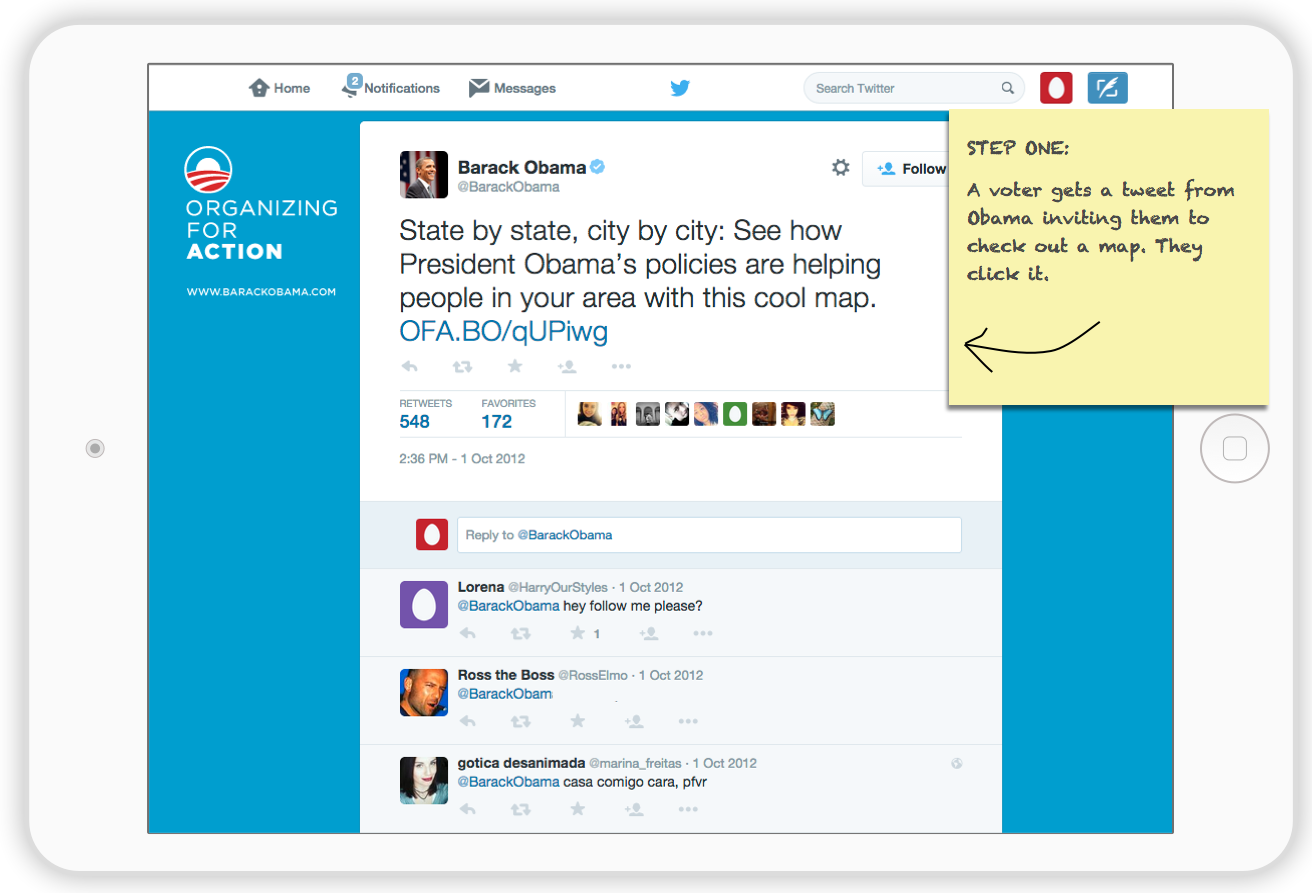
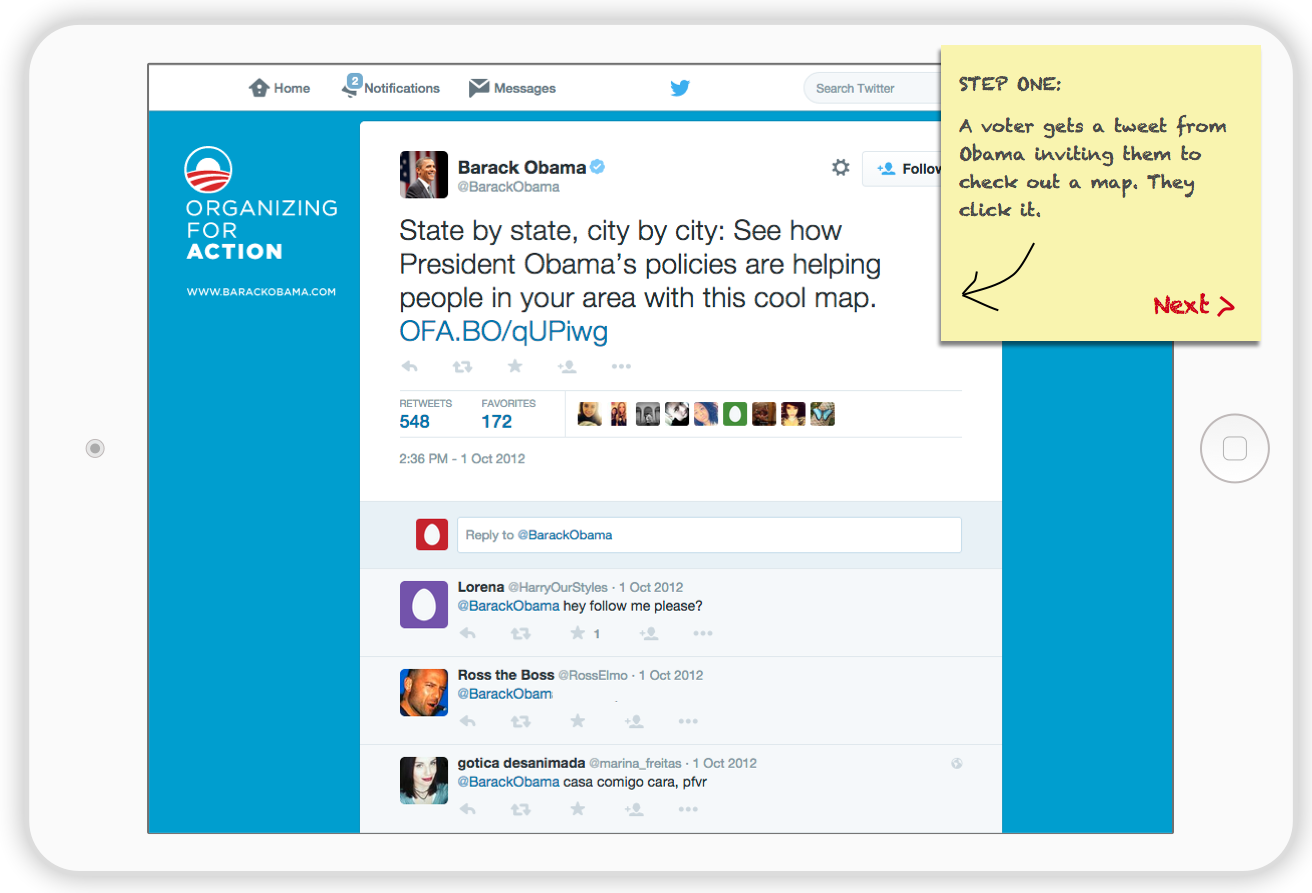
Add next buttons to postits

Changed region(s): [[0.6875, 0.0302, 0.9688, 0.4838]]

diff --git a/obama.html b/obama.html
@@ -2,6 +2,10 @@
   $('#howItWorksCarousel').carousel({
     interval:false
   });
+
+  $('.img-carousel').on('click', function() {
+    $('#howItWorksCarousel').carousel('next');
+  });
   
   var Cycler = function(container, delay) {
     this.container = container
@@ -81,4 +85,4 @@
 | <a href="index.html">Product design portfolio</a></span></div></div><div style="text-align:right; font-size:18px;" class="col-md-6 margin-top-sm small-02"></div></div><div class="row margin-top-medium-lg"><div style="text-align:center;" class="col-md-12"><div class="header-01"> 
 Obama for America:<br>Project Atlas</div><div class="margin-top-sm subhead-01"> 
 An app designed to make President Obama's accomplishments<br>engaging and relevant to voters at a local level</div><div class="small-01 margin-top-medium-sm label-gr"><span class="pill">Ideation</span><span class="pill">Wireframing</span><span class="pill">Project&nbsp;management</span><span class="pill">Google&nbsp;Maps&nbsp;API</span><span class="pill">JavaScript</span></div></div></div><div class="row margin-top-medium"><div style="text-align:center;" class="col-md-12"><img src="images/obama/desktop_display_florida.png" class="img-responsive"><br><span class="caption">Screen shot of Project Atlas zoomed in on Florida.</span></div></div><div class="row margin-top-medium"><div class="col-md-6"><div class="subhead-01-bold">CHALLENGE</div><div class="margin-top-sm"> 
-From research conducted at the campaign's Chicago headquarters, we knew that many voters respond favorably to talking points about Obama's first term, but only when it's about their own community. </div><div class="margin-top-sm"> <p>Project Atlas is an app that makes Obama's accomplishments engaging and relevant to voters at a local level. It does this by detecting user location and offering county-level information about improvements to health care, taxes, clean energy, and more.</p></div></div><div class="col-md-6"><div class="subhead-01-bold">MY ROLE</div><div class="margin-top-sm">Based in the San Francisco Technology Field Office, I led the ideation, wireframing and ran weekly presentations to campaign headquarters. In addition, I led the dev team, wrangled data, coordinated the efforts of more than a dozen volunteers, and wrote a good portion of the JavaScript and CSS.</div></div></div><div class="row margin-top-medium"><div style="text-align:center;" class="col-md-12"><div class="header-01">Making the president's achievements relevant to the user's location is key.</div></div></div><div class="row margin-top-medium"><div style="text-align:center;" class="col-md-12"><div class="caption-header subhead-01-bold italic"><strong>How it works:</strong></div><div id="howItWorksCarousel" data-ride="carousel" class="carousel slide margin-top-sm"><ol class="carousel-indicators"><li data-target="#howItWorksCarousel" data-slide-to="0" class="active"></li><li data-target="#howItWorksCarousel" data-slide-to="1"></li><li data-target="#howItWorksCarousel" data-slide-to="2"></li></ol><div role="listbox" class="carousel-inner"><div class="item active"><img src="images/obama/concept_01_note.png" class="img-responsive img-carousel"></div><div class="item"><img src="images/obama/concept_02_note.png" class="img-responsive img-carousel"></div><div class="item"><img src="images/obama/concept_03_note.png" class="img-responsive img-carousel"></div></div></div><div><a href="#howItWorksCarousel" role="button" data-slide="prev" class="left carousel-control"><span aria-hidden="true" class="glyphicon glyphicon-chevron-left"></span><span class="sr-only">Previous</span></a><a href="#howItWorksCarousel" role="button" data-slide="next" class="right carousel-control"><span aria-hidden="true" class="glyphicon glyphicon-chevron-right"></span><span class="sr-only">Next</span></a></div></div></div><div class="row margin-top-medium"><div style="text-align:center;" class="col-md-12"><div class="header-01">In the beginning, all we had were large, unprocessed government data sets.</div></div></div><div class="row margin-top-medium"><div class="col-md-6"><div class="subhead-01-bold">CONCEPT DEVELOPMENT</div><div class="margin-top-sm"> </div> With campaign-provided data at hand and research findings in mind, I set out to better understand the shape of the data and what stories it might reveal. Ultimately, my goal was to come up with ideas to pitch to our stakeholders. <div class="margin-top-sm">I set up a geospatial database and started making maps. I made a lot: children gaining health care; renewable energy investments; tax savings, and many more. </div></div><div class="col-md-6"><div class="img-cycler"><img src="images/obama/exploration-01.png" class="img-responsive img-fadable active"><img src="images/obama/exploration-02.png" class="img-responsive img-fadable"><img src="images/obama/exploration-03.png" class="img-responsive img-fadable"><img src="images/obama/exploration-04.png" class="img-responsive img-fadable"><img src="images/obama/exploration-05.png" class="img-responsive img-fadable"><img src="images/obama/exploration-06.png" class="img-responsive img-fadable"></div></div></div><div class="row margin-top-medium"><div class="col-md-12"><div class="subhead-01-bold">WIREFRAMES</div><div class="margin-top-sm">Our stakeholders liked the direction of a recovery-themed map I created, which used data about the 2009 stimulus bill. The first wireframes showed stimulus projects color-coded by category. These categories corresponded to the campaign's core policy areas: education, energy, health and infrastructure. Since most of the data was uncategorized, we mobilized volunteers to label about 2,000 projects. </div></div></div><div class="row margin-top-sm"><div class="col-md-6"><img src="images/obama/wireframe-01.png" style="border:1px solid #ccc;" class="img-responsive"><div class="caption margin-top-xsm">The first wireframes I created show the top five recovery projects per state. Projects are color-coded to correspond to campaign themes: education, energy, health and infrastructure. The maps were created using real data.</div></div><div class="col-md-6"><img src="images/obama/wireframe-02.png" style="border:1px solid #ccc;" class="img-responsive"><div class="caption margin-top-xsm">As the user zooms in, more and more projects are revealed. At each zoom level, the most relevant projects are highlighted in the inset at the right.</div></div></div><div class="row margin-top-medium"><div class="col-md-12">Once we had some sample data to work with, the engineers and I started writing code. We planned to have a simple prototype running in a week. Things were moving along. So far, so good.</div></div><div class="row margin-top-medium"><div class="col-md-12"><div class="subhead-01-bold">PIVOT</div><div class="margin-top-sm">In July, things abruptly changed for the worse. Just as the recovery map concept started to take shape, the Romney campaign attacked the stimulus bill. The Obama campaign banned the mention of it. The project was stopped in its tracks.</div></div></div><div class="row margin-top-medium"><div style="text-align:center;" class="col-md-12"><div class="header-01">Campaign headquarters put the kibosh on our project. We were stopped in our tracks.</div></div></div><div class="row margin-top-medium"><div class="col-md-12"><div class="margin-top-sm">Everything could have easily ended at this point. Rather than give up, I went back and re-evaluated the data sets we hadn't used, and came up with a new solution. It detected the user's location and displayed the president's accomplishments across all of the campaign's policy areas. The digital director at headquarters liked the new direction, and gave us the green light.</div></div></div><div class="row margin-top-medium"><div class="col-md-12"><div class="subhead-01-bold">A NEW DIRECTION</div><div class="margin-top-sm">Due to time constraints, I skipped wire framing and worked directly with the prototype we had started.</div><div class="margin-top-sm">Leveraging Google's mapping API, we were able to detect user location and populate the UI with locally-focused talking points. Since some data was geocoded by latitude and longitude, and others by county and state codes, we built the underlying codebase to sort out what information to display at what zoom level.</div></div></div><hr><div class="row margin-top-medium-sm"><div class="col-md-4"><img src="images/obama/IPhone_5_prototype.png" style="display:block; margin-left:auto; margin-right:auto;" class="img-responsive"></div><div class="col-md-8"><img src="images/obama/IPad_3_prototype.png" style="display:block; margin-left:auto; margin-right:auto;" class="img-responsive"></div></div><div class="row"><div class="col-md-12 margin-top-sm caption padded centered">Using Twitter's Bootstrap UI framework, I was able to simultaneously design for tablets and phones, helping us keep to a very tight timeline.</div></div><hr><div class="row margin-top-medium"><div style="text-align:center;" class="col-md-12"><div class="header-01">By running development in parallel, we designed for all screen sizes simultaneously, and caught difficult UX problems early.</div></div></div><div class="row margin-top-medium-lg"><div class="col-md-12"><img src="images/obama/edge_case.png" style="display:block; margin-left:auto; margin-right:auto; border:1px solid #ccc; padding:10px 10px 50px 10px" class="img-responsive"></div></div><div class="row"><div class="col-md-12 margin-top-sm caption padded centered">Edge case: Many zipcodes are in multiple counties. When a user's zip code is in more than one county, they are prompted to select from a menu. One zip code in Virginia, shown above, is in four counties.</div></div><div class="row margin-top-medium"><div class="col-md-12"><div class="subhead-01-bold">FINAL DESIGN REFINEMENT</div></div></div><div class="row margin-top-sm"><div class="col-md-12"><img src="images/obama/early-version.png" class="img-responsive"></div></div><div class="row"><div class="col-md-12 margin-top-sm caption padded centered">An early version with all the working components and UX design completed. The app detects where the user is located and supplies talking points relevant to them across key policy areas.</div></div><div class="row margin-top-medium"><div class="col-md-12"><img src="images/obama/ohio.png" class="img-responsive"></div></div><div class="row"><div class="col-md-12 margin-top-sm caption padded centered">The final version of the app zoomed in on northern Ohio. </div></div><div class="row margin-top-medium"><div class="col-md-12"><div class="subhead-01-bold">SUCCESS</div><div class="margin-top-sm">The final weeks of the campaign were total chaos. Despite this, we managed to launch Project Atlas the morning of October 1st. Later that day, the campaign sent the URL out on Obama's Twitter account, where it reached the president's 42 million followers. </div></div></div><div class="row margin-top-medium"><div style="text-align:center;" class="col-md-12"><div class="header-01">Project Atlas launched on Obama's Twitter account five weeks before election day, where it reached the President's 42 million followers.</div></div></div><div class="row margin-top-medium"><div class="col-md-12"><img src="images/obama/obama-twitter.png" style="display:block; margin-left:auto; margin-right:auto; border:1px solid #ccc; padding:10px;" class="img-responsive"></div></div><div class="row margin-top-xlg"></div><div class="col-md-6"></div></div></body></html>
+From research conducted at the campaign's Chicago headquarters, we knew that many voters respond favorably to talking points about Obama's first term, but only when it's about their own community. </div><div class="margin-top-sm"> <p>Project Atlas is an app that makes Obama's accomplishments engaging and relevant to voters at a local level. It does this by detecting user location and offering county-level information about improvements to health care, taxes, clean energy, and more.</p></div></div><div class="col-md-6"><div class="subhead-01-bold">MY ROLE</div><div class="margin-top-sm">Based in the San Francisco Technology Field Office, I led the ideation, wireframing and ran weekly presentations to campaign headquarters. In addition, I led the dev team, wrangled data, coordinated the efforts of more than a dozen volunteers, and wrote a good portion of the JavaScript and CSS.</div></div></div><div class="row margin-top-medium"><div style="text-align:center;" class="col-md-12"><div class="header-01">Making the president's achievements relevant to the user's location is key.</div></div></div><div class="row margin-top-medium"><div style="text-align:center;" class="col-md-12"><div class="caption-header subhead-01-bold italic"><strong>How it works:</strong></div><div id="howItWorksCarousel" data-ride="carousel" class="carousel slide margin-top-sm"><ol class="carousel-indicators"><li data-target="#howItWorksCarousel" data-slide-to="0" class="active"></li><li data-target="#howItWorksCarousel" data-slide-to="1"></li><li data-target="#howItWorksCarousel" data-slide-to="2"></li></ol><div role="listbox" class="carousel-inner"><div class="item active"><img src="images/obama/concept_01_note.png" class="img-responsive img-carousel"></div><div class="item"><img src="images/obama/concept_02_note.png" class="img-responsive img-carousel"></div><div class="item"><img src="images/obama/concept_03_note.png" class="img-responsive img-carousel"></div></div></div></div></div><div class="row margin-top-medium"><div style="text-align:center;" class="col-md-12"><div class="header-01">In the beginning, all we had were large, unprocessed government data sets.</div></div></div><div class="row margin-top-medium"><div class="col-md-6"><div class="subhead-01-bold">CONCEPT DEVELOPMENT</div><div class="margin-top-sm"> </div> With campaign-provided data at hand and research findings in mind, I set out to better understand the shape of the data and what stories it might reveal. Ultimately, my goal was to come up with ideas to pitch to our stakeholders. <div class="margin-top-sm">I set up a geospatial database and started making maps. I made a lot: children gaining health care; renewable energy investments; tax savings, and many more. </div></div><div class="col-md-6"><div class="img-cycler"><img src="images/obama/exploration-01.png" class="img-responsive img-fadable active"><img src="images/obama/exploration-02.png" class="img-responsive img-fadable"><img src="images/obama/exploration-03.png" class="img-responsive img-fadable"><img src="images/obama/exploration-04.png" class="img-responsive img-fadable"><img src="images/obama/exploration-05.png" class="img-responsive img-fadable"><img src="images/obama/exploration-06.png" class="img-responsive img-fadable"></div></div></div><div class="row margin-top-medium"><div class="col-md-12"><div class="subhead-01-bold">WIREFRAMES</div><div class="margin-top-sm">Our stakeholders liked the direction of a recovery-themed map I created, which used data about the 2009 stimulus bill. The first wireframes showed stimulus projects color-coded by category. These categories corresponded to the campaign's core policy areas: education, energy, health and infrastructure. Since most of the data was uncategorized, we mobilized volunteers to label about 2,000 projects. </div></div></div><div class="row margin-top-sm"><div class="col-md-6"><img src="images/obama/wireframe-01.png" style="border:1px solid #ccc;" class="img-responsive"><div class="caption margin-top-xsm">The first wireframes I created show the top five recovery projects per state. Projects are color-coded to correspond to campaign themes: education, energy, health and infrastructure. The maps were created using real data.</div></div><div class="col-md-6"><img src="images/obama/wireframe-02.png" style="border:1px solid #ccc;" class="img-responsive"><div class="caption margin-top-xsm">As the user zooms in, more and more projects are revealed. At each zoom level, the most relevant projects are highlighted in the inset at the right.</div></div></div><div class="row margin-top-medium"><div class="col-md-12">Once we had some sample data to work with, the engineers and I started writing code. We planned to have a simple prototype running in a week. Things were moving along. So far, so good.</div></div><div class="row margin-top-medium"><div class="col-md-12"><div class="subhead-01-bold">PIVOT</div><div class="margin-top-sm">In July, things abruptly changed for the worse. Just as the recovery map concept started to take shape, the Romney campaign attacked the stimulus bill. The Obama campaign banned the mention of it. The project was stopped in its tracks.</div></div></div><div class="row margin-top-medium"><div style="text-align:center;" class="col-md-12"><div class="header-01">Campaign headquarters put the kibosh on our project. We were stopped in our tracks.</div></div></div><div class="row margin-top-medium"><div class="col-md-12"><div class="margin-top-sm">Everything could have easily ended at this point. Rather than give up, I went back and re-evaluated the data sets we hadn't used, and came up with a new solution. It detected the user's location and displayed the president's accomplishments across all of the campaign's policy areas. The digital director at headquarters liked the new direction, and gave us the green light.</div></div></div><div class="row margin-top-medium"><div class="col-md-12"><div class="subhead-01-bold">A NEW DIRECTION</div><div class="margin-top-sm">Due to time constraints, I skipped wire framing and worked directly with the prototype we had started.</div><div class="margin-top-sm">Leveraging Google's mapping API, we were able to detect user location and populate the UI with locally-focused talking points. Since some data was geocoded by latitude and longitude, and others by county and state codes, we built the underlying codebase to sort out what information to display at what zoom level.</div></div></div><hr><div class="row margin-top-medium-sm"><div class="col-md-4"><img src="images/obama/IPhone_5_prototype.png" style="display:block; margin-left:auto; margin-right:auto;" class="img-responsive"></div><div class="col-md-8"><img src="images/obama/IPad_3_prototype.png" style="display:block; margin-left:auto; margin-right:auto;" class="img-responsive"></div></div><div class="row"><div class="col-md-12 margin-top-sm caption padded centered">Using Twitter's Bootstrap UI framework, I was able to simultaneously design for tablets and phones, helping us keep to a very tight timeline.</div></div><hr><div class="row margin-top-medium"><div style="text-align:center;" class="col-md-12"><div class="header-01">By running development in parallel, we designed for all screen sizes simultaneously, and caught difficult UX problems early.</div></div></div><div class="row margin-top-medium-lg"><div class="col-md-12"><img src="images/obama/edge_case.png" style="display:block; margin-left:auto; margin-right:auto; border:1px solid #ccc; padding:10px 10px 50px 10px" class="img-responsive"></div></div><div class="row"><div class="col-md-12 margin-top-sm caption padded centered">Edge case: Many zipcodes are in multiple counties. When a user's zip code is in more than one county, they are prompted to select from a menu. One zip code in Virginia, shown above, is in four counties.</div></div><div class="row margin-top-medium"><div class="col-md-12"><div class="subhead-01-bold">FINAL DESIGN REFINEMENT</div></div></div><div class="row margin-top-sm"><div class="col-md-12"><img src="images/obama/early-version.png" class="img-responsive"></div></div><div class="row"><div class="col-md-12 margin-top-sm caption padded centered">An early version with all the working components and UX design completed. The app detects where the user is located and supplies talking points relevant to them across key policy areas.</div></div><div class="row margin-top-medium"><div class="col-md-12"><img src="images/obama/ohio.png" class="img-responsive"></div></div><div class="row"><div class="col-md-12 margin-top-sm caption padded centered">The final version of the app zoomed in on northern Ohio. </div></div><div class="row margin-top-medium"><div class="col-md-12"><div class="subhead-01-bold">SUCCESS</div><div class="margin-top-sm">The final weeks of the campaign were total chaos. Despite this, we managed to launch Project Atlas the morning of October 1st. Later that day, the campaign sent the URL out on Obama's Twitter account, where it reached the president's 42 million followers. </div></div></div><div class="row margin-top-medium"><div style="text-align:center;" class="col-md-12"><div class="header-01">Project Atlas launched on Obama's Twitter account five weeks before election day, where it reached the President's 42 million followers.</div></div></div><div class="row margin-top-medium"><div class="col-md-12"><img src="images/obama/obama-twitter.png" style="display:block; margin-left:auto; margin-right:auto; border:1px solid #ccc; padding:10px;" class="img-responsive"></div></div><div class="row margin-top-xlg"></div><div class="col-md-6"></div></div></body></html>

diff --git a/css/style.css b/css/style.css
@@ -14,7 +14,8 @@ img.center {
 }
 
 img.img-carousel {
-  padding: 0px 180px 20px 180px;
+  padding: 0px 0px 0px 0px;
+  cursor: pointer;
 }
 
 .italic {
@@ -184,7 +185,7 @@ carousel-image {
 @media(max-width:767px) {
   
   img.img-carousel {
-    padding: 0px 20px 20px 20px;
+    padding: 0px 0px 0px 0px;
   }
   .header-01 {
     font-size: 48px;
@@ -195,7 +196,7 @@ carousel-image {
 @media(min-width:768px) {
   
   img.img-carousel {
-    padding: 0px 40px 20px 40px;
+    padding: 0px 0px 0px 0px;
   }
   .header-01 {
     font-size: 58px;
@@ -206,7 +207,7 @@ carousel-image {
 @media(min-width:992px) {
   
   img.img-carousel {
-    padding: 0px 80px 20px 80px;
+    padding: 0px 0px 0px 0px;
   }
   .header-01 {
     font-size: 72px;
@@ -217,7 +218,7 @@ carousel-image {
 @media(min-width:1200px) {
   
   img.img-carousel {
-    padding: 0px 80px 20px 80px;
+    padding: 0px 0px 0px 0px;
   }
   .header-01 {
     font-size: 72px;

diff --git a/head.html b/head.html
@@ -2,6 +2,10 @@
   $('#howItWorksCarousel').carousel({
     interval:false
   });
+
+  $('.img-carousel').on('click', function() {
+    $('#howItWorksCarousel').carousel('next');
+  });
   
   var Cycler = function(container, delay) {
     this.container = container

diff --git a/layout.html b/layout.html
@@ -2,6 +2,10 @@
   $('#howItWorksCarousel').carousel({
     interval:false
   });
+
+  $('.img-carousel').on('click', function() {
+    $('#howItWorksCarousel').carousel('next');
+  });
   
   var Cycler = function(container, delay) {
     this.container = container

diff --git a/treatment.html b/treatment.html
@@ -2,6 +2,10 @@
   $('#howItWorksCarousel').carousel({
     interval:false
   });
+
+  $('.img-carousel').on('click', function() {
+    $('#howItWorksCarousel').carousel('next');
+  });
   
   var Cycler = function(container, delay) {
     this.container = container
